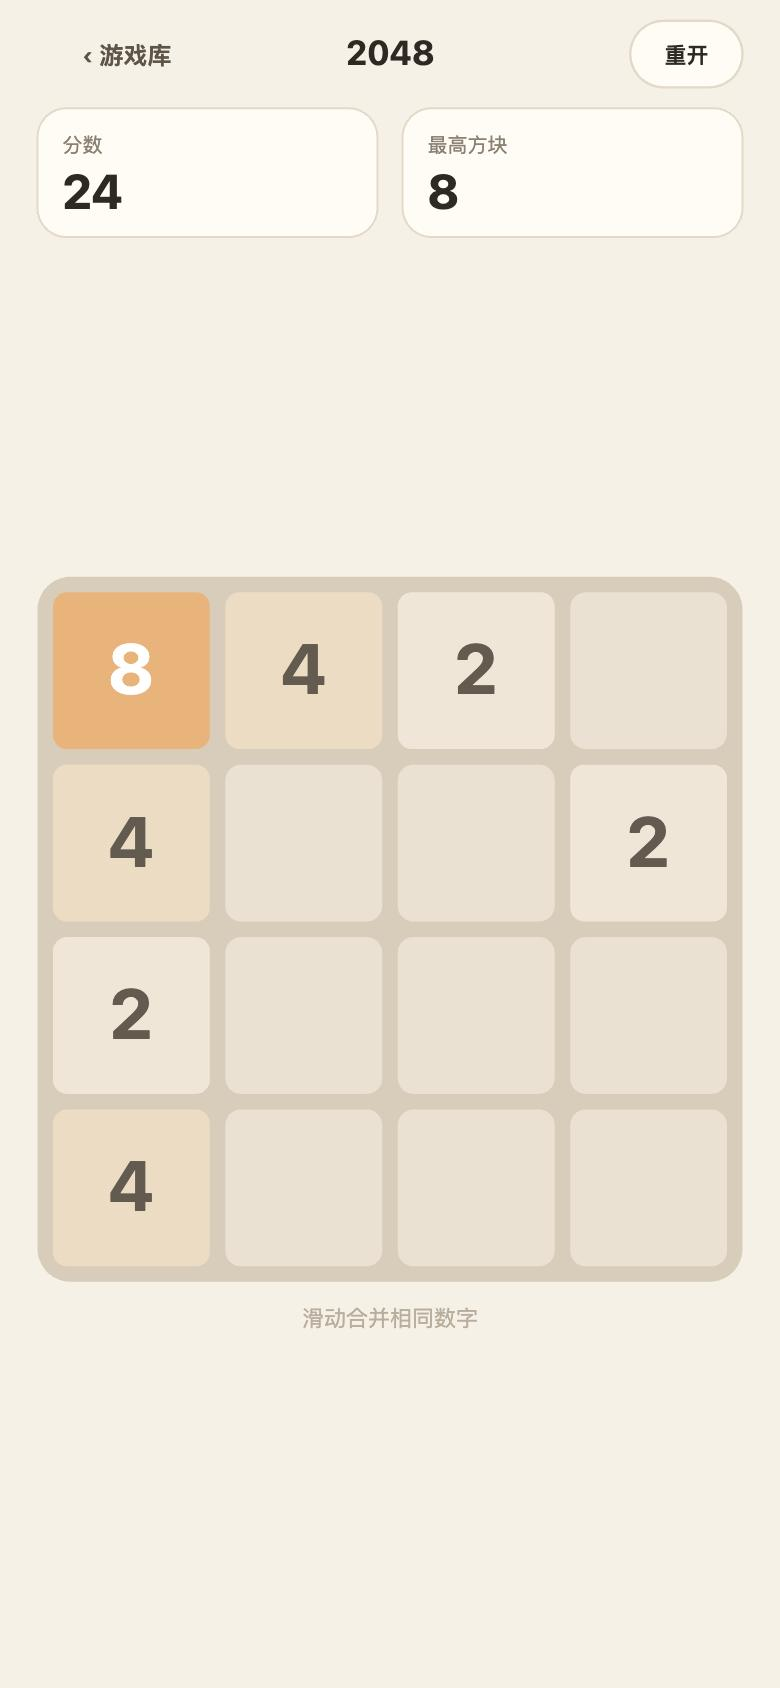
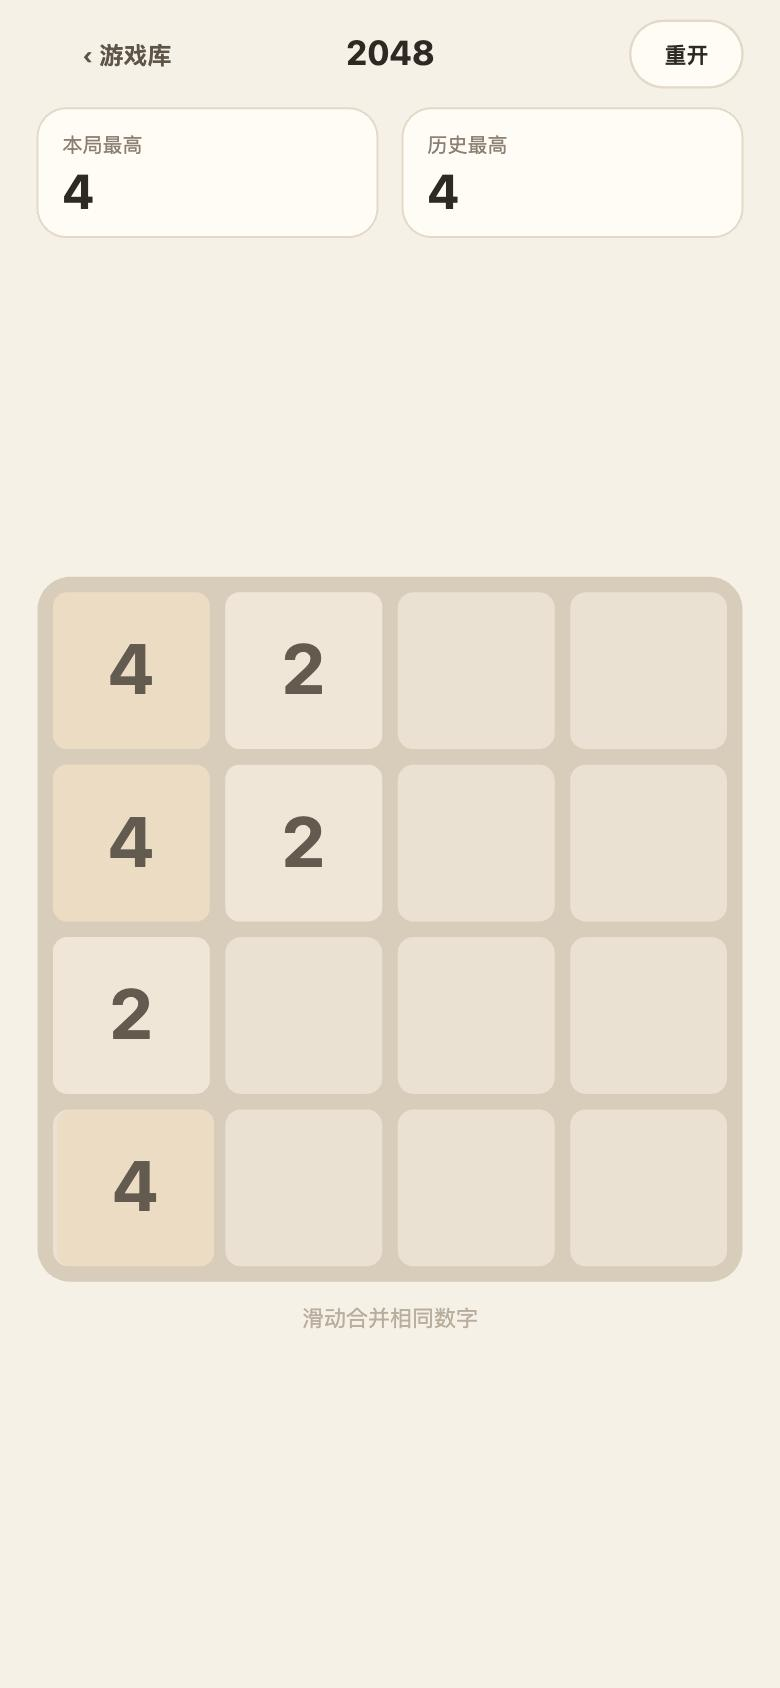
Publish 泽斯塔游戏库

diff --git a/game-library/index.html b/game-library/index.html
@@ -2,9 +2,9 @@
 <html lang="en"><head><meta charset="utf-8">
 <meta name="viewport" content="width=device-width,initial-scale=1,maximum-scale=1,user-scalable=no,viewport-fit=cover">
 <meta http-equiv="Content-Security-Policy" content="default-src 'none'; img-src data: blob:; media-src data: blob:; font-src data:; style-src 'unsafe-inline'; script-src 'unsafe-inline'; connect-src 'none'; form-action 'none'">
-<title>游戏库</title>
+<title>泽斯塔游戏库</title>
 <style>html,body{margin:0;width:100%;height:100%;height:100dvh;overflow:hidden;background:#000;user-select:none;-webkit-user-select:none;-webkit-touch-callout:none;overscroll-behavior:none}canvas{display:block;width:100vw;height:100vh;height:100dvh;touch-action:none;outline:none;-webkit-tap-highlight-color:transparent}</style></head><body><canvas id="game" tabindex="0"></canvas>
[2 lines of base64/hex data omitted]
 <script>/* 游戏库 · 2048
  * Generated by build.js from src/*.js. Do not edit this file directly.
  * Build: node build.js
@@ -1560,9 +1560,13 @@ var GLHub = (function () {
   function drawHeader(app, u, pad, top) {
     var ctx = app.ctx;
     var mark = 38 * u;
-    drawMark(ctx, pad, top + 10 * u, mark);
+    if (app.logoImage) {
+      ctx.drawImage(app.logoImage, pad, top + 10 * u, mark, mark);
+    } else {
+      drawMark(ctx, pad, top + 10 * u, mark);
+    }
 
-    GLUI.text(ctx, app.title || '游戏库', pad + mark + 13 * u, top + 22 * u, {
+    GLUI.text(ctx, app.title || '泽斯塔游戏库', pad + mark + 13 * u, top + 22 * u, {
       size: 23 * u, weight: 'bold', color: T.ink, maxWidth: app.W - pad * 2 - mark - 90 * u
     });
     GLUI.text(ctx, '随时来一局，慢慢变强', pad + mark + 13 * u, top + 46 * u, {
@@ -1667,7 +1671,7 @@ var GLHub = (function () {
       }
     });
 
-    GLUI.text(ctx, '游戏库 v1.0 · 数据仅保存在本机', px + pw / 2, py + ph - 24 * u, {
+    GLUI.text(ctx, '泽斯塔游戏库 v1.0 · 数据仅保存在本机', px + pw / 2, py + ph - 24 * u, {
       size: 10 * u, weight: 'normal', color: T.faint, align: 'center'
     });
   }
@@ -1685,7 +1689,7 @@ var GLHub = (function () {
     GLUI.text(ctx, '清除本地数据？', px + pw / 2, py + 42 * u, {
       size: 18 * u, weight: 'bold', color: T.ink, align: 'center'
     });
-    GLUI.text(ctx, '总分、最高分、最大块和当前对局都会被删除，', px + pw / 2, py + 78 * u, {
+    GLUI.text(ctx, '总局数、最高方块、最高收集和当前对局都会被删除，', px + pw / 2, py + 78 * u, {
       size: 12 * u, weight: 'normal', color: T.muted, align: 'center', maxWidth: pw - 32 * u
     });
     GLUI.text(ctx, '且无法恢复。', px + pw / 2, py + 98 * u, {
@@ -2148,8 +2152,7 @@ var GLGame2048 = (function () {
   function share(app) {
     var s = app.session;
     if (!s) return;
-    var title = '我在《游戏库》2048 合出了 ' + s.state.maxTile +
-      '，得分 ' + s.state.score + '，来挑战我！';
+    var title = '我在《泽斯塔游戏库》2048 合出了 ' + s.state.maxTile + '，来挑战我！';
     if (title.length > 40) title = title.slice(0, 39) + '…';
     var how = GLPlatform.share(title);
     if (how === 'copied') app.showToast('分享文案已复制');
@@ -2357,10 +2360,10 @@ var GLGame2048 = (function () {
     GLUI.text(ctx, '合出了目标数字', app.W / 2, py + 92 * u, {
       size: 13 * u, weight: 'normal', color: T.muted, align: 'center'
     });
-    GLUI.text(ctx, String(s.state.score), app.W / 2, py + 146 * u, {
+    GLUI.text(ctx, String(s.state.maxTile), app.W / 2, py + 146 * u, {
       size: 46 * u, weight: 'bold', color: T.ink, align: 'center', maxWidth: pw - 32 * u
     });
-    GLUI.text(ctx, '本局分数', app.W / 2, py + 180 * u, {
+    GLUI.text(ctx, '本局最高方块', app.W / 2, py + 180 * u, {
       size: 10 * u, weight: 'normal', color: T.faint, align: 'center'
     });
 
@@ -2398,7 +2401,7 @@ var GLGame2048 = (function () {
     GLUI.text(ctx, String(r.tile), app.W / 2, py + 122 * u, {
       size: 45 * u, weight: 'bold', color: T.accent, align: 'center', maxWidth: pw - 32 * u
     });
-    GLUI.text(ctx, '历史最高 ' + r.bestTile + ' · 本局得分 ' + r.score, app.W / 2, py + 160 * u, {
+    GLUI.text(ctx, '历史最高 ' + r.bestTile, app.W / 2, py + 160 * u, {
       size: 12 * u, weight: 'normal', color: T.muted, align: 'center', maxWidth: pw - 32 * u
     });
 
@@ -2438,10 +2441,10 @@ var GLGame2048 = (function () {
     GLUI.text(ctx, '重开这一局？', app.W / 2, py + 42 * u, {
       size: 18 * u, weight: 'bold', color: T.ink, align: 'center'
     });
-    GLUI.text(ctx, '当前分数和棋盘会被清空，', app.W / 2, py + 80 * u, {
+    GLUI.text(ctx, '当前得分和棋盘会被清空，', app.W / 2, py + 80 * u, {
       size: 12 * u, weight: 'normal', color: T.muted, align: 'center'
     });
-    GLUI.text(ctx, '历史最高分会保留。', app.W / 2, py + 100 * u, {
+    GLUI.text(ctx, '历史最高方块会保留。', app.W / 2, py + 100 * u, {
       size: 12 * u, weight: 'normal', color: T.muted, align: 'center'
     });
 
@@ -2476,8 +2479,8 @@ var GLGame2048 = (function () {
     var gap = 12 * u;
     var pw = (app.W - pad * 2 - gap) / 2;
     var ph = 62 * u;
-    drawScorePanel(app, pad, scoreY, pw, ph, '分数', app.session.state.score, u);
-    drawScorePanel(app, pad + pw + gap, scoreY, pw, ph, '最高方块', Math.max(app.stats.maxTile, app.session.state.maxTile), u);
+    drawScorePanel(app, pad, scoreY, pw, ph, '本局最高', app.session.state.maxTile, u);
+    drawScorePanel(app, pad + pw + gap, scoreY, pw, ph, '历史最高', app.stats.maxTile, u);
 
     renderBoard(app, u);
 
@@ -3119,7 +3122,7 @@ var GLCollector = (function () {
   'use strict';
 
   var app = {
-    title: '游戏库',
+    title: '泽斯塔游戏库',
     rules: {},
     W: 375,
     H: 667,
@@ -3145,6 +3148,7 @@ var GLCollector = (function () {
     now: 0,
     fps: 60,
     boardRect: null,
+    logoImage: null,
     showToast: showToast,
     invalidate: invalidate
   };
@@ -3473,6 +3477,21 @@ var GLCollector = (function () {
     }
   }
 
+  function loadLogo(url) {
+    if (!url || typeof Image === 'undefined') return;
+    try {
+      var img = new Image();
+      img.onload = function () {
+        app.logoImage = img;
+        app.invalidate();
+      };
+      img.onerror = function () {
+        app.logoImage = null;
+      };
+      img.src = url;
+    } catch (e) { /* keep the drawn fallback */ }
+  }
+
   function reportError(err) {
     var message = (err && err.message) ? err.message : String(err || 'Unknown error');
     try { console.error('[game-library]', message); } catch (e) { /* ignore */ }
@@ -3486,8 +3505,9 @@ var GLCollector = (function () {
   function boot() {
     try {
       var GAME = (typeof window !== 'undefined' && window.GAME) || {};
-      app.title = GAME.title || '游戏库';
+      app.title = GAME.title || '泽斯塔游戏库';
       app.rules = GAME.rules || {};
+      loadLogo((GAME.assets || {}).logo);
 
       GLPlatform.bindEvents();
       resize();
@@ -3610,15 +3630,14 @@ var GLCollector = (function () {
   window.__wxSharePayload = function () {
     if (app.scene === 'collector' && app.collector) {
       return {
-        title: '我在《游戏库》小球收集拿到 ' + app.collector.score + ' 个，来挑战我！',
+        title: '我在《泽斯塔游戏库》小球收集拿到 ' + app.collector.score + ' 个，来挑战我！',
         imageUrl: 'images/share-cover.jpg'
       };
     }
     var tile = app.session ? app.session.state.maxTile : 0;
-    var score = app.session ? app.session.state.score : 0;
     var title = tile > 0
-      ? '我在《游戏库》2048 合出了 ' + tile + '，得分 ' + score + '，来挑战我！'
-      : '游戏库 · 2048，来一局？';
+      ? '我在《泽斯塔游戏库》2048 合出了 ' + tile + '，来挑战我！'
+      : '泽斯塔游戏库 · 2048，来一局？';
     if (title.length > 40) title = title.slice(0, 39) + '…';
     return { title: title, imageUrl: 'images/share-cover.jpg' };
   };

diff --git a/index.html b/index.html
@@ -16,6 +16,6 @@ h1{margin:0 0 6px;font-size:24px}p.sub{margin:0 0 24px;color:var(--muted)}
 </style></head><body><main>
 <h1>DSH 游戏工坊 · 已发布游戏</h1><p class="sub">用 DSH 游戏工坊制作并发布的网页小游戏，点开即可游玩。</p>
 <div class="list">
-<a class="card" href="./game-library/"><strong>游戏库</strong><span>2026-11-26</span></a>
+<a class="card" href="./game-library/"><strong>泽斯塔游戏库</strong><span>2026-11-26</span></a>
 </div>
 </main></body></html>
